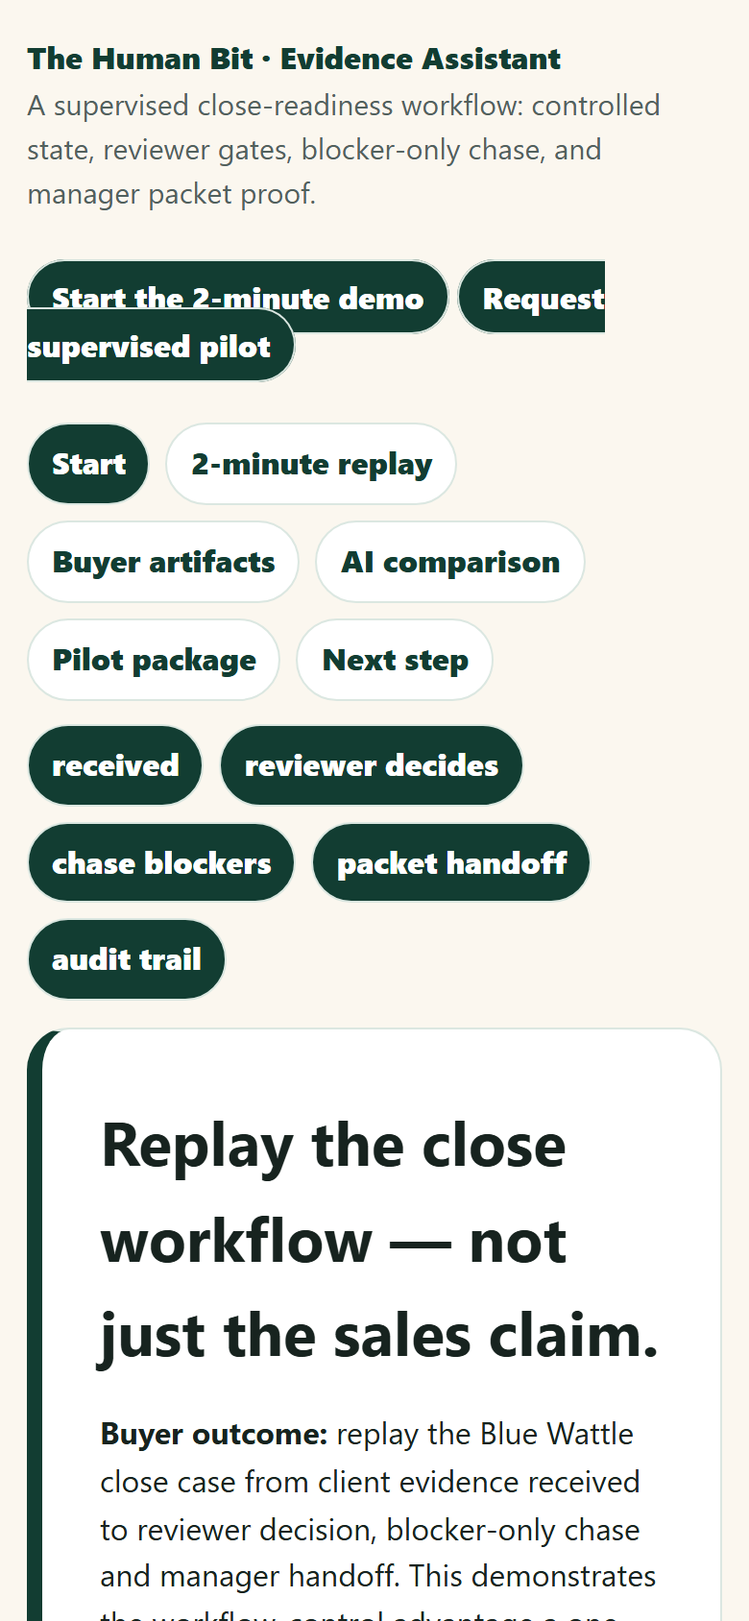
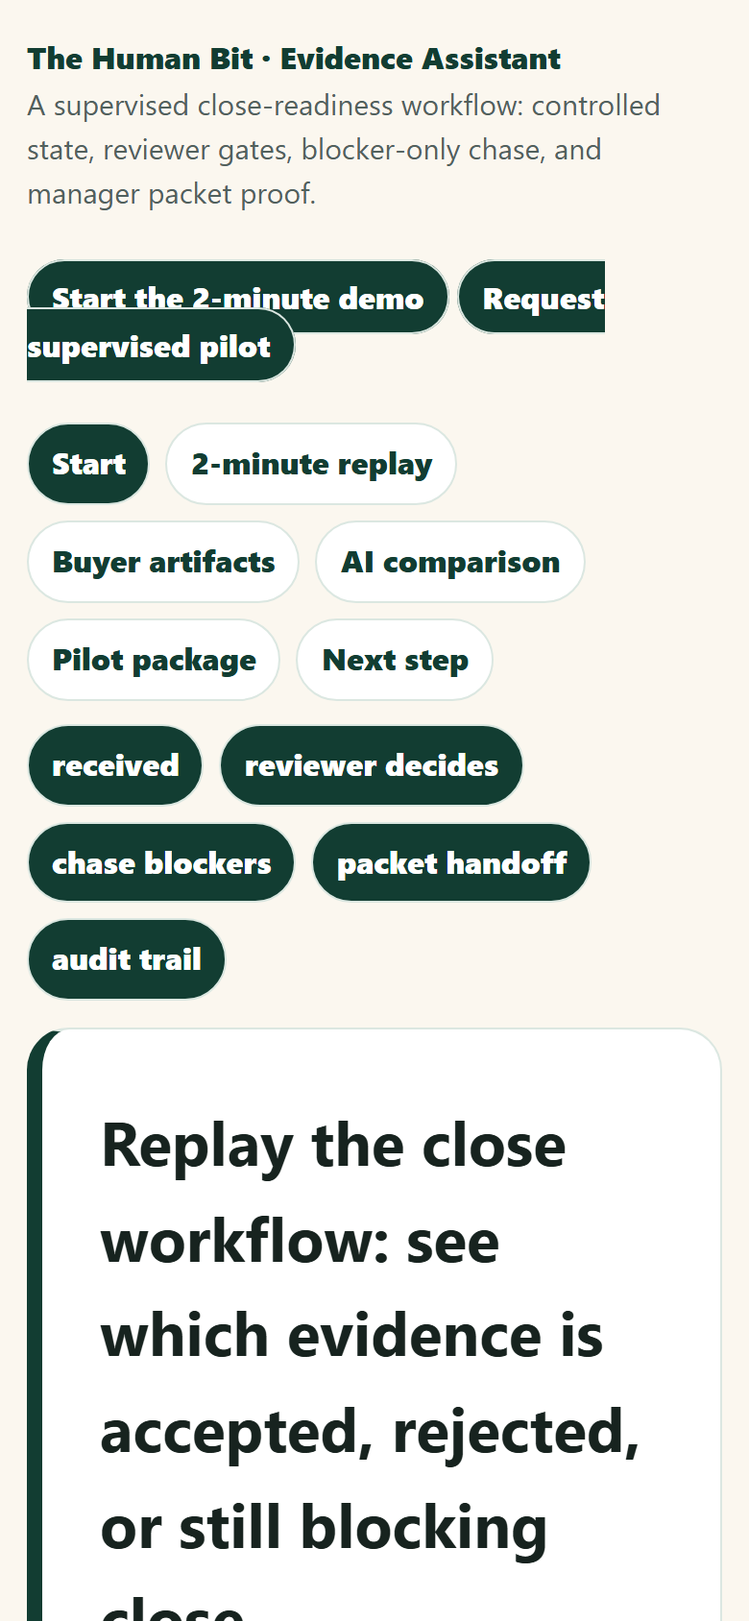
Build 84 fix replay fixture and pilot request

Changed region(s): [[0.1231, 0.7393, 0.8615, 1.0]]

diff --git a/workflow-replay.html b/workflow-replay.html
@@ -1,1 +1,1 @@
-<!doctype html><html lang="en"><head><meta charset="utf-8"><meta name="viewport" content="width=device-width, initial-scale=1"><title>2-minute workflow replay — Evidence Assistant</title><style>:root{--ink:#17231f;--green:#123d32;--muted:#52615d;--paper:#fbf7ef;--card:#fff;--line:#dbe7e1;--cream:#fff7df;--bad:#ffe8e2;--ok:#e7f5ed;--blue:#e9f2ff;--purple:#f0ebff;--cyan:#dff7ff}*{box-sizing:border-box}body{margin:0;font:16px/1.55 Inter,system-ui,-apple-system,Segoe UI,Arial,sans-serif;background:var(--paper);color:var(--ink)}main{max-width:1180px;margin:auto;padding:18px 14px 56px}.brand{font-weight:950;color:var(--green)}.small{color:var(--muted);font-size:.94rem}.top{display:flex;gap:14px;justify-content:space-between;align-items:flex-start;flex-wrap:wrap}nav,.progress{display:flex;gap:8px;flex-wrap:wrap;margin:12px 0}nav a,.chip,.cta{border:1px solid var(--line);background:#fff;border-radius:999px;padding:8px 12px;color:var(--green);font-weight:850;text-decoration:none}nav a[aria-current=page],.chip.active,.cta{background:var(--green);color:white}.hero,.card,.boundary,.danger,.step,.packet{background:var(--card);border:1px solid var(--line);border-radius:22px;padding:22px;margin:14px 0}.hero{padding:30px;border-left:8px solid var(--green)}.hero h1{font-size:clamp(2rem,4vw,3.7rem);margin:.2rem 0}.boundary{background:var(--cream);border-color:#e4c36f}.danger{background:var(--bad);border-color:#d7897c}.grid{display:grid;grid-template-columns:repeat(auto-fit,minmax(250px,1fr));gap:12px}.step{margin:0}.num{display:inline-grid;place-items:center;width:30px;height:30px;border-radius:50%;background:var(--green);color:white;font-weight:950;margin-right:8px}.badge{display:inline-block;border-radius:999px;padding:5px 10px;font-size:.86rem;font-weight:950;border:1px solid transparent;margin:2px}.accepted{background:var(--ok);color:#0f5132;border-color:#9bd1af}.waiting-review{background:var(--blue);color:#184c84;border-color:#9cbde0}.rejected-problem{background:var(--bad);color:#84281d;border-color:#e4aaa0}.requested-missing{background:var(--purple);color:#43227e;border-color:#baa7ed}.proof-table{width:100%;border-collapse:collapse;margin:12px 0}.proof-table th,.proof-table td{border:1px solid var(--line);padding:10px;text-align:left;vertical-align:top}.event{border-left:5px solid var(--green);background:#fff;margin:10px 0;padding:14px;border-radius:14px}.artifact{background:var(--cyan);border-color:#8ccdde}pre{white-space:pre-wrap;background:#07131f;color:#f4f7f1;border-radius:14px;padding:14px;overflow:auto}html,body,main{max-width:100%;overflow-x:hidden}</style></head><body><main><div class="top"><div><div class="brand">The Human Bit · Evidence Assistant</div><div class="small">A supervised close-readiness workflow: controlled state, reviewer gates, blocker-only chase, and manager packet proof.</div></div><p><a class="cta" href="workflow-replay.html">Start the 2-minute demo</a> <a class="cta" href="next-step.html">Request supervised pilot</a></p></div><nav aria-label="Buyer journey"><a href="index.html">Start</a><a href="workflow-replay.html" aria-current="page">2-minute replay</a><a href="buyer-artifacts.html">Buyer artifacts</a><a href="generic-ai-comparison.html">AI comparison</a><a href="pilot-package.html">Pilot package</a><a href="next-step.html">Next step</a></nav><section class="progress" aria-label="2-minute route"><span class="chip active">received</span><span class="chip active">reviewer decides</span><span class="chip active">chase blockers</span><span class="chip active">packet handoff</span><span class="chip active">audit trail</span></section><section class="hero"><h1>Blue Wattle replay: intake → review → blocker chase → packet.</h1><p>This public replay shows the moat: persistent case state, actor-specific decisions, before/after status and packet inclusion rules. A generic prompt can draft a table; it cannot prove who decided what, when, or what was excluded.</p><div class="event"><h2><span class="num">1</span>EV-001 · intake_received</h2><p><strong>08:10 · Staff Mina</strong> · September payroll variance support</p><p>Before: <code>requested/missing</code> → After: <code>waiting-review</code></p><p><strong>Packet rule:</strong> excluded until reviewer acceptance</p></div><div class="event"><h2><span class="num">2</span>EV-002 · intake_received</h2><p><strong>08:12 · Staff Mina</strong> · Bank reconciliation for operating account</p><p>Before: <code>requested/missing</code> → After: <code>waiting-review</code></p><p><strong>Packet rule:</strong> excluded until reviewer acceptance</p></div><div class="event"><h2><span class="num">3</span>EV-003 · accepted</h2><p><strong>08:16 · Reviewer Priya</strong> · September payroll variance support</p><p>Before: <code>waiting-review</code> → After: <code>accepted</code></p><p><strong>Packet rule:</strong> included in manager packet</p></div><div class="event"><h2><span class="num">4</span>EV-004 · accepted</h2><p><strong>08:18 · Reviewer Priya</strong> · Bank reconciliation for operating account</p><p>Before: <code>waiting-review</code> → After: <code>accepted</code></p><p><strong>Packet rule:</strong> included in manager packet</p></div><div class="event"><h2><span class="num">5</span>EV-005 · rejected</h2><p><strong>08:21 · Reviewer Priya</strong> · GST adjustment workpaper</p><p>Before: <code>waiting-review</code> → After: <code>rejected/problem</code></p><p><strong>Packet rule:</strong> excluded; rejection reason becomes chase blocker</p></div><div class="event"><h2><span class="num">6</span>EV-006 · blocker_only_chase_generated</h2><p><strong>08:23 · System draft, staff approved</strong> · GST adjustment workpaper; Director loan statement</p><p>Before: <code>unresolved blockers open</code> → After: <code>approved draft ready for simulated send</code></p><p><strong>Packet rule:</strong> chase references unresolved blockers only</p></div><div class="event"><h2><span class="num">7</span>EV-007 · packet_handoff</h2><p><strong>08:26 · Manager Sam</strong> · Blue Wattle close packet</p><p>Before: <code>mixed inbox thread</code> → After: <code>can/cannot close because packet</code></p><p><strong>Packet rule:</strong> accepted items included; unresolved blockers explicit</p></div><div class="card"><h2>Final state ledger</h2><table class="proof-table"><tr><th>Evidence item</th><th>Status</th><th>Owner</th><th>Packet rule / next action</th></tr><tr><td>September payroll variance support</td><td><span class="badge accepted">accepted</span></td><td>Reviewer Priya</td><td>Included in manager packet with decision log.</td></tr><tr><td>Bank reconciliation for operating account</td><td><span class="badge accepted">accepted after review</span></td><td>Reviewer Priya</td><td>Included only after reviewer event EV-004.</td></tr><tr><td>GST adjustment workpaper</td><td><span class="badge rejected-problem">rejected/problem</span></td><td>Client owner Mina</td><td>Excluded; chase asks for September workpaper only.</td></tr><tr><td>Director loan statement</td><td><span class="badge requested-missing">requested/missing</span></td><td>Client owner Mina</td><td>Excluded; chase remains open until uploaded.</td></tr></table></div><p><a class="cta" href="workflow-replay-fixture.json">Download replay JSON fixture</a></p></section></main></body></html>
+<!doctype html><html lang="en"><head><meta charset="utf-8"><meta name="viewport" content="width=device-width, initial-scale=1"><title>2-minute workflow replay — Evidence Assistant</title><style>:root{--ink:#17231f;--green:#123d32;--muted:#52615d;--paper:#fbf7ef;--card:#fff;--line:#dbe7e1;--cream:#fff7df;--bad:#ffe8e2;--ok:#e7f5ed;--blue:#e9f2ff;--purple:#f0ebff;--cyan:#dff7ff}*{box-sizing:border-box}body{margin:0;font:16px/1.55 Inter,system-ui,-apple-system,Segoe UI,Arial,sans-serif;background:var(--paper);color:var(--ink)}main{max-width:1180px;margin:auto;padding:18px 14px 56px}.brand{font-weight:950;color:var(--green)}.small{color:var(--muted);font-size:.94rem}.top{display:flex;gap:14px;justify-content:space-between;align-items:flex-start;flex-wrap:wrap}nav,.progress{display:flex;gap:8px;flex-wrap:wrap;margin:12px 0}nav a,.chip,.cta{border:1px solid var(--line);background:#fff;border-radius:999px;padding:8px 12px;color:var(--green);font-weight:850;text-decoration:none}nav a[aria-current=page],.chip.active,.cta{background:var(--green);color:white}.hero,.card,.boundary,.danger,.step,.packet{background:var(--card);border:1px solid var(--line);border-radius:22px;padding:22px;margin:14px 0}.hero{padding:30px;border-left:8px solid var(--green)}.hero h1{font-size:clamp(2rem,4vw,3.7rem);margin:.2rem 0}.boundary{background:var(--cream);border-color:#e4c36f}.danger{background:var(--bad);border-color:#d7897c}.grid{display:grid;grid-template-columns:repeat(auto-fit,minmax(250px,1fr));gap:12px}.step{margin:0}.num{display:inline-grid;place-items:center;width:30px;height:30px;border-radius:50%;background:var(--green);color:white;font-weight:950;margin-right:8px}.badge{display:inline-block;border-radius:999px;padding:5px 10px;font-size:.86rem;font-weight:950;border:1px solid transparent;margin:2px}.accepted{background:var(--ok);color:#0f5132;border-color:#9bd1af}.waiting-review{background:var(--blue);color:#184c84;border-color:#9cbde0}.rejected-problem{background:var(--bad);color:#84281d;border-color:#e4aaa0}.requested-missing{background:var(--purple);color:#43227e;border-color:#baa7ed}.proof-table{width:100%;border-collapse:collapse;margin:12px 0}.proof-table th,.proof-table td{border:1px solid var(--line);padding:10px;text-align:left;vertical-align:top}.event{border-left:5px solid var(--green);background:#fff;margin:10px 0;padding:14px;border-radius:14px}.artifact{background:var(--cyan);border-color:#8ccdde}pre{white-space:pre-wrap;background:#07131f;color:#f4f7f1;border-radius:14px;padding:14px;overflow:auto}html,body,main{max-width:100%;overflow-x:hidden}</style></head><body><main><div class="top"><div><div class="brand">The Human Bit · Evidence Assistant</div><div class="small">A supervised close-readiness workflow: controlled state, reviewer gates, blocker-only chase, and manager packet proof.</div></div><p><a class="cta" href="workflow-replay.html">Start the 2-minute demo</a> <a class="cta" href="next-step.html">Request supervised pilot</a></p></div><nav aria-label="Buyer journey"><a href="index.html">Start</a><a href="workflow-replay.html" aria-current="page">2-minute replay</a><a href="buyer-artifacts.html">Buyer artifacts</a><a href="generic-ai-comparison.html">AI comparison</a><a href="pilot-package.html">Pilot package</a><a href="next-step.html">Next step</a></nav><section class="progress" aria-label="2-minute route"><span class="chip active">received</span><span class="chip active">reviewer decides</span><span class="chip active">chase blockers</span><span class="chip active">packet handoff</span><span class="chip active">audit trail</span></section><section class="hero"><h1>Blue Wattle replay: intake → review → blocker chase → packet.</h1><p>This public replay shows the moat: persistent case state, actor-specific decisions, before/after status and packet inclusion rules. A generic prompt can draft a table; it cannot prove who decided what, when, or what was excluded.</p><div class="event"><h2><span class="num">1</span>EV-001 · intake_received</h2><p><strong>08:10 · Staff Mina</strong> · September payroll variance support</p><p>Before: <code>requested/missing</code> → After: <code>waiting-review</code></p><p><strong>Packet rule:</strong> excluded until reviewer acceptance</p></div><div class="event"><h2><span class="num">2</span>EV-002 · intake_received</h2><p><strong>08:12 · Staff Mina</strong> · Bank reconciliation for operating account</p><p>Before: <code>requested/missing</code> → After: <code>waiting-review</code></p><p><strong>Packet rule:</strong> excluded until reviewer acceptance</p></div><div class="event"><h2><span class="num">3</span>EV-003 · accepted</h2><p><strong>08:16 · Reviewer Priya</strong> · September payroll variance support</p><p>Before: <code>waiting-review</code> → After: <code>accepted</code></p><p><strong>Packet rule:</strong> included in manager packet</p></div><div class="event"><h2><span class="num">4</span>EV-004 · accepted</h2><p><strong>08:18 · Reviewer Priya</strong> · Bank reconciliation for operating account</p><p>Before: <code>waiting-review</code> → After: <code>accepted</code></p><p><strong>Packet rule:</strong> included in manager packet</p></div><div class="event"><h2><span class="num">5</span>EV-005 · rejected</h2><p><strong>08:21 · Reviewer Priya</strong> · GST adjustment workpaper</p><p>Before: <code>waiting-review</code> → After: <code>rejected/problem</code></p><p><strong>Packet rule:</strong> excluded; rejection reason becomes chase blocker</p></div><div class="event"><h2><span class="num">6</span>EV-006 · blocker_only_chase_generated</h2><p><strong>08:23 · System draft, staff approved</strong> · GST adjustment workpaper; Director loan statement</p><p>Before: <code>unresolved blockers open</code> → After: <code>approved draft ready for simulated send</code></p><p><strong>Packet rule:</strong> chase references unresolved blockers only</p></div><div class="event"><h2><span class="num">7</span>EV-007 · packet_handoff</h2><p><strong>08:26 · Manager Sam</strong> · Blue Wattle close packet</p><p>Before: <code>mixed inbox thread</code> → After: <code>can/cannot close because packet</code></p><p><strong>Packet rule:</strong> accepted items included; unresolved blockers explicit</p></div><div class="card"><h2>Final state ledger</h2><table class="proof-table"><tr><th>Evidence item</th><th>Status</th><th>Owner</th><th>Packet rule / next action</th></tr><tr><td>September payroll variance support</td><td><span class="badge accepted">accepted</span></td><td>Reviewer Priya</td><td>Included in manager packet with decision log.</td></tr><tr><td>Bank reconciliation for operating account</td><td><span class="badge accepted">accepted after review</span></td><td>Reviewer Priya</td><td>Included only after reviewer event EV-004.</td></tr><tr><td>GST adjustment workpaper</td><td><span class="badge rejected-problem">rejected/problem</span></td><td>Client owner Mina</td><td>Excluded; chase asks for September workpaper only.</td></tr><tr><td>Director loan statement</td><td><span class="badge requested-missing">requested/missing</span></td><td>Client owner Mina</td><td>Excluded; chase remains open until uploaded.</td></tr></table></div><p><a class="cta" href="workflow-replay-fixture.json">Download workflow replay JSON fixture</a> · <a class="cta" href="replay-fixture.json">Download alias: replay-fixture.json</a></p></section></main></body></html>

diff --git a/index.html b/index.html
@@ -1,1 +1,1 @@
-<!doctype html><html lang="en"><head><meta charset="utf-8"><meta name="viewport" content="width=device-width, initial-scale=1"><title>Start here — Evidence Assistant</title><style>:root{--ink:#17231f;--green:#123d32;--muted:#52615d;--paper:#fbf7ef;--card:#fff;--line:#dbe7e1;--cream:#fff7df;--bad:#ffe8e2;--ok:#e7f5ed;--blue:#e9f2ff;--purple:#f0ebff;--cyan:#dff7ff}*{box-sizing:border-box}body{margin:0;font:16px/1.55 Inter,system-ui,-apple-system,Segoe UI,Arial,sans-serif;background:var(--paper);color:var(--ink)}main{max-width:1180px;margin:auto;padding:18px 14px 56px}.brand{font-weight:950;color:var(--green)}.small{color:var(--muted);font-size:.94rem}.top{display:flex;gap:14px;justify-content:space-between;align-items:flex-start;flex-wrap:wrap}nav,.progress{display:flex;gap:8px;flex-wrap:wrap;margin:12px 0}nav a,.chip,.cta{border:1px solid var(--line);background:#fff;border-radius:999px;padding:8px 12px;color:var(--green);font-weight:850;text-decoration:none}nav a[aria-current=page],.chip.active,.cta{background:var(--green);color:white}.hero,.card,.boundary,.danger,.step,.packet{background:var(--card);border:1px solid var(--line);border-radius:22px;padding:22px;margin:14px 0}.hero{padding:30px;border-left:8px solid var(--green)}.hero h1{font-size:clamp(2rem,4vw,3.7rem);margin:.2rem 0}.boundary{background:var(--cream);border-color:#e4c36f}.danger{background:var(--bad);border-color:#d7897c}.grid{display:grid;grid-template-columns:repeat(auto-fit,minmax(250px,1fr));gap:12px}.step{margin:0}.num{display:inline-grid;place-items:center;width:30px;height:30px;border-radius:50%;background:var(--green);color:white;font-weight:950;margin-right:8px}.badge{display:inline-block;border-radius:999px;padding:5px 10px;font-size:.86rem;font-weight:950;border:1px solid transparent;margin:2px}.accepted{background:var(--ok);color:#0f5132;border-color:#9bd1af}.waiting-review{background:var(--blue);color:#184c84;border-color:#9cbde0}.rejected-problem{background:var(--bad);color:#84281d;border-color:#e4aaa0}.requested-missing{background:var(--purple);color:#43227e;border-color:#baa7ed}.proof-table{width:100%;border-collapse:collapse;margin:12px 0}.proof-table th,.proof-table td{border:1px solid var(--line);padding:10px;text-align:left;vertical-align:top}.event{border-left:5px solid var(--green);background:#fff;margin:10px 0;padding:14px;border-radius:14px}.artifact{background:var(--cyan);border-color:#8ccdde}pre{white-space:pre-wrap;background:#07131f;color:#f4f7f1;border-radius:14px;padding:14px;overflow:auto}html,body,main{max-width:100%;overflow-x:hidden}</style></head><body><main><div class="top"><div><div class="brand">The Human Bit · Evidence Assistant</div><div class="small">A supervised close-readiness workflow: controlled state, reviewer gates, blocker-only chase, and manager packet proof.</div></div><p><a class="cta" href="workflow-replay.html">Start the 2-minute demo</a> <a class="cta" href="next-step.html">Request supervised pilot</a></p></div><nav aria-label="Buyer journey"><a href="index.html" aria-current="page">Start</a><a href="workflow-replay.html">2-minute replay</a><a href="buyer-artifacts.html">Buyer artifacts</a><a href="generic-ai-comparison.html">AI comparison</a><a href="pilot-package.html">Pilot package</a><a href="next-step.html">Next step</a></nav><section class="progress" aria-label="2-minute route"><span class="chip active">received</span><span class="chip active">reviewer decides</span><span class="chip active">chase blockers</span><span class="chip active">packet handoff</span><span class="chip active">audit trail</span></section><section class="hero"><h1>Replay the close workflow — not just the sales claim.</h1><p><strong>Buyer outcome:</strong> replay the Blue Wattle close case from client evidence received to reviewer decision, blocker-only chase and manager handoff. This demonstrates the workflow-control advantage a one-off prompt cannot prove.</p><div class="grid"><div class="card"><h2>Start here</h2><p><a class="cta" href="workflow-replay.html">Start the 2-minute demo</a></p><p>Follow event IDs, actors, before/after states and packet inclusion rules.</p></div><div class="card"><h2>What changed in Build 83</h2><p>Static explanation became a replayable proof bundle: event log, state ledger, sample packet, blocker chase and same-input AI comparison.</p></div><div class="card"><h2>Safety boundary</h2><p>No auto-accept. No auto-send. Reviewer events and staff approval are required before close evidence becomes usable or chase copy leaves the firm.</p></div></div><div class="card"><h2>Blue Wattle case state after replay</h2><table class="proof-table"><tr><th>Evidence item</th><th>Status</th><th>Owner</th><th>Packet rule / next action</th></tr><tr><td>September payroll variance support</td><td><span class="badge accepted">accepted</span></td><td>Reviewer Priya</td><td>Included in manager packet with decision log.</td></tr><tr><td>Bank reconciliation for operating account</td><td><span class="badge accepted">accepted after review</span></td><td>Reviewer Priya</td><td>Included only after reviewer event EV-004.</td></tr><tr><td>GST adjustment workpaper</td><td><span class="badge rejected-problem">rejected/problem</span></td><td>Client owner Mina</td><td>Excluded; chase asks for September workpaper only.</td></tr><tr><td>Director loan statement</td><td><span class="badge requested-missing">requested/missing</span></td><td>Client owner Mina</td><td>Excluded; chase remains open until uploaded.</td></tr></table></div><div class="boundary"><strong>Proof drawer:</strong> this is a public, sanitized static replay and artifact pack for buyer review. It is not a production SaaS claim and contains no client data.</div></section></main></body></html>
+<!doctype html><html lang="en"><head><meta charset="utf-8"><meta name="viewport" content="width=device-width, initial-scale=1"><title>Start here — Evidence Assistant</title><style>:root{--ink:#17231f;--green:#123d32;--muted:#52615d;--paper:#fbf7ef;--card:#fff;--line:#dbe7e1;--cream:#fff7df;--bad:#ffe8e2;--ok:#e7f5ed;--blue:#e9f2ff;--purple:#f0ebff;--cyan:#dff7ff}*{box-sizing:border-box}body{margin:0;font:16px/1.55 Inter,system-ui,-apple-system,Segoe UI,Arial,sans-serif;background:var(--paper);color:var(--ink)}main{max-width:1180px;margin:auto;padding:18px 14px 56px}.brand{font-weight:950;color:var(--green)}.small{color:var(--muted);font-size:.94rem}.top{display:flex;gap:14px;justify-content:space-between;align-items:flex-start;flex-wrap:wrap}nav,.progress{display:flex;gap:8px;flex-wrap:wrap;margin:12px 0}nav a,.chip,.cta{border:1px solid var(--line);background:#fff;border-radius:999px;padding:8px 12px;color:var(--green);font-weight:850;text-decoration:none}nav a[aria-current=page],.chip.active,.cta{background:var(--green);color:white}.hero,.card,.boundary,.danger,.step,.packet{background:var(--card);border:1px solid var(--line);border-radius:22px;padding:22px;margin:14px 0}.hero{padding:30px;border-left:8px solid var(--green)}.hero h1{font-size:clamp(2rem,4vw,3.7rem);margin:.2rem 0}.boundary{background:var(--cream);border-color:#e4c36f}.danger{background:var(--bad);border-color:#d7897c}.grid{display:grid;grid-template-columns:repeat(auto-fit,minmax(250px,1fr));gap:12px}.step{margin:0}.num{display:inline-grid;place-items:center;width:30px;height:30px;border-radius:50%;background:var(--green);color:white;font-weight:950;margin-right:8px}.badge{display:inline-block;border-radius:999px;padding:5px 10px;font-size:.86rem;font-weight:950;border:1px solid transparent;margin:2px}.accepted{background:var(--ok);color:#0f5132;border-color:#9bd1af}.waiting-review{background:var(--blue);color:#184c84;border-color:#9cbde0}.rejected-problem{background:var(--bad);color:#84281d;border-color:#e4aaa0}.requested-missing{background:var(--purple);color:#43227e;border-color:#baa7ed}.proof-table{width:100%;border-collapse:collapse;margin:12px 0}.proof-table th,.proof-table td{border:1px solid var(--line);padding:10px;text-align:left;vertical-align:top}.event{border-left:5px solid var(--green);background:#fff;margin:10px 0;padding:14px;border-radius:14px}.artifact{background:var(--cyan);border-color:#8ccdde}pre{white-space:pre-wrap;background:#07131f;color:#f4f7f1;border-radius:14px;padding:14px;overflow:auto}html,body,main{max-width:100%;overflow-x:hidden}</style></head><body><main><div class="top"><div><div class="brand">The Human Bit · Evidence Assistant</div><div class="small">A supervised close-readiness workflow: controlled state, reviewer gates, blocker-only chase, and manager packet proof.</div></div><p><a class="cta" href="workflow-replay.html">Start the 2-minute demo</a> <a class="cta" href="next-step.html">Request supervised pilot</a></p></div><nav aria-label="Buyer journey"><a href="index.html" aria-current="page">Start</a><a href="workflow-replay.html">2-minute replay</a><a href="buyer-artifacts.html">Buyer artifacts</a><a href="generic-ai-comparison.html">AI comparison</a><a href="pilot-package.html">Pilot package</a><a href="next-step.html">Next step</a></nav><section class="progress" aria-label="2-minute route"><span class="chip active">received</span><span class="chip active">reviewer decides</span><span class="chip active">chase blockers</span><span class="chip active">packet handoff</span><span class="chip active">audit trail</span></section><section class="hero"><h1>Replay the close workflow: see which evidence is accepted, rejected, or still blocking close.</h1><p><strong>Buyer outcome:</strong> see exactly which client evidence is accepted, rejected, or still blocking close — with a safe chase draft and manager packet. This demonstrates the workflow-control advantage a one-off prompt cannot prove.</p><div class="grid"><div class="card"><h2>Start here</h2><p><a class="cta" href="workflow-replay.html">Start the 2-minute demo</a></p><p>Follow event IDs, actors, before/after states and packet inclusion rules.</p></div><div class="card"><h2>What changed in Build 84</h2><p>Static explanation became a replayable proof bundle: event log, state ledger, sample packet, blocker chase and same-input AI comparison.</p></div><div class="card"><h2>Safety boundary</h2><p>No auto-accept. No auto-send. Reviewer events and staff approval are required before close evidence becomes usable or chase copy leaves the firm.</p></div></div><div class="card"><h2>Blue Wattle case state after replay</h2><table class="proof-table"><tr><th>Evidence item</th><th>Status</th><th>Owner</th><th>Packet rule / next action</th></tr><tr><td>September payroll variance support</td><td><span class="badge accepted">accepted</span></td><td>Reviewer Priya</td><td>Included in manager packet with decision log.</td></tr><tr><td>Bank reconciliation for operating account</td><td><span class="badge accepted">accepted after review</span></td><td>Reviewer Priya</td><td>Included only after reviewer event EV-004.</td></tr><tr><td>GST adjustment workpaper</td><td><span class="badge rejected-problem">rejected/problem</span></td><td>Client owner Mina</td><td>Excluded; chase asks for September workpaper only.</td></tr><tr><td>Director loan statement</td><td><span class="badge requested-missing">requested/missing</span></td><td>Client owner Mina</td><td>Excluded; chase remains open until uploaded.</td></tr></table></div><div class="boundary"><strong>Proof drawer:</strong> this is a public, sanitized static replay and artifact pack for buyer review. It is not a production SaaS claim and contains no client data.</div></section></main></body></html>

diff --git a/next-step.html b/next-step.html
@@ -1,4 +1,4 @@
-<!doctype html><html lang="en"><head><meta charset="utf-8"><meta name="viewport" content="width=device-width, initial-scale=1"><title>Next step — Evidence Assistant</title><style>:root{--ink:#17231f;--green:#123d32;--muted:#52615d;--paper:#fbf7ef;--card:#fff;--line:#dbe7e1;--cream:#fff7df;--bad:#ffe8e2;--ok:#e7f5ed;--blue:#e9f2ff;--purple:#f0ebff;--cyan:#dff7ff}*{box-sizing:border-box}body{margin:0;font:16px/1.55 Inter,system-ui,-apple-system,Segoe UI,Arial,sans-serif;background:var(--paper);color:var(--ink)}main{max-width:1180px;margin:auto;padding:18px 14px 56px}.brand{font-weight:950;color:var(--green)}.small{color:var(--muted);font-size:.94rem}.top{display:flex;gap:14px;justify-content:space-between;align-items:flex-start;flex-wrap:wrap}nav,.progress{display:flex;gap:8px;flex-wrap:wrap;margin:12px 0}nav a,.chip,.cta{border:1px solid var(--line);background:#fff;border-radius:999px;padding:8px 12px;color:var(--green);font-weight:850;text-decoration:none}nav a[aria-current=page],.chip.active,.cta{background:var(--green);color:white}.hero,.card,.boundary,.danger,.step,.packet{background:var(--card);border:1px solid var(--line);border-radius:22px;padding:22px;margin:14px 0}.hero{padding:30px;border-left:8px solid var(--green)}.hero h1{font-size:clamp(2rem,4vw,3.7rem);margin:.2rem 0}.boundary{background:var(--cream);border-color:#e4c36f}.danger{background:var(--bad);border-color:#d7897c}.grid{display:grid;grid-template-columns:repeat(auto-fit,minmax(250px,1fr));gap:12px}.step{margin:0}.num{display:inline-grid;place-items:center;width:30px;height:30px;border-radius:50%;background:var(--green);color:white;font-weight:950;margin-right:8px}.badge{display:inline-block;border-radius:999px;padding:5px 10px;font-size:.86rem;font-weight:950;border:1px solid transparent;margin:2px}.accepted{background:var(--ok);color:#0f5132;border-color:#9bd1af}.waiting-review{background:var(--blue);color:#184c84;border-color:#9cbde0}.rejected-problem{background:var(--bad);color:#84281d;border-color:#e4aaa0}.requested-missing{background:var(--purple);color:#43227e;border-color:#baa7ed}.proof-table{width:100%;border-collapse:collapse;margin:12px 0}.proof-table th,.proof-table td{border:1px solid var(--line);padding:10px;text-align:left;vertical-align:top}.event{border-left:5px solid var(--green);background:#fff;margin:10px 0;padding:14px;border-radius:14px}.artifact{background:var(--cyan);border-color:#8ccdde}pre{white-space:pre-wrap;background:#07131f;color:#f4f7f1;border-radius:14px;padding:14px;overflow:auto}html,body,main{max-width:100%;overflow-x:hidden}</style></head><body><main><div class="top"><div><div class="brand">The Human Bit · Evidence Assistant</div><div class="small">A supervised close-readiness workflow: controlled state, reviewer gates, blocker-only chase, and manager packet proof.</div></div><p><a class="cta" href="workflow-replay.html">Start the 2-minute demo</a> <a class="cta" href="next-step.html">Request supervised pilot</a></p></div><nav aria-label="Buyer journey"><a href="index.html">Start</a><a href="workflow-replay.html">2-minute replay</a><a href="buyer-artifacts.html">Buyer artifacts</a><a href="generic-ai-comparison.html">AI comparison</a><a href="pilot-package.html">Pilot package</a><a href="next-step.html" aria-current="page">Next step</a></nav><section class="progress" aria-label="2-minute route"><span class="chip active">received</span><span class="chip active">reviewer decides</span><span class="chip active">chase blockers</span><span class="chip active">packet handoff</span><span class="chip active">audit trail</span></section><section class="hero"><h1>Request a supervised pilot without sending client data.</h1><p><strong>Request supervised pilot</strong> — this static artifact has no form and collects no client data. Use the mailto link or copy the request below.</p><p><a class="cta" href="mailto:syed@example.invalid?subject=Evidence%20Assistant%20supervised%20pilot">Open pilot request email</a></p><div class="card"><h2>Copyable request</h2><pre>Subject: Evidence Assistant supervised pilot
+<!doctype html><html lang="en"><head><meta charset="utf-8"><meta name="viewport" content="width=device-width, initial-scale=1"><title>Next step — Evidence Assistant</title><style>:root{--ink:#17231f;--green:#123d32;--muted:#52615d;--paper:#fbf7ef;--card:#fff;--line:#dbe7e1;--cream:#fff7df;--bad:#ffe8e2;--ok:#e7f5ed;--blue:#e9f2ff;--purple:#f0ebff;--cyan:#dff7ff}*{box-sizing:border-box}body{margin:0;font:16px/1.55 Inter,system-ui,-apple-system,Segoe UI,Arial,sans-serif;background:var(--paper);color:var(--ink)}main{max-width:1180px;margin:auto;padding:18px 14px 56px}.brand{font-weight:950;color:var(--green)}.small{color:var(--muted);font-size:.94rem}.top{display:flex;gap:14px;justify-content:space-between;align-items:flex-start;flex-wrap:wrap}nav,.progress{display:flex;gap:8px;flex-wrap:wrap;margin:12px 0}nav a,.chip,.cta{border:1px solid var(--line);background:#fff;border-radius:999px;padding:8px 12px;color:var(--green);font-weight:850;text-decoration:none}nav a[aria-current=page],.chip.active,.cta{background:var(--green);color:white}.hero,.card,.boundary,.danger,.step,.packet{background:var(--card);border:1px solid var(--line);border-radius:22px;padding:22px;margin:14px 0}.hero{padding:30px;border-left:8px solid var(--green)}.hero h1{font-size:clamp(2rem,4vw,3.7rem);margin:.2rem 0}.boundary{background:var(--cream);border-color:#e4c36f}.danger{background:var(--bad);border-color:#d7897c}.grid{display:grid;grid-template-columns:repeat(auto-fit,minmax(250px,1fr));gap:12px}.step{margin:0}.num{display:inline-grid;place-items:center;width:30px;height:30px;border-radius:50%;background:var(--green);color:white;font-weight:950;margin-right:8px}.badge{display:inline-block;border-radius:999px;padding:5px 10px;font-size:.86rem;font-weight:950;border:1px solid transparent;margin:2px}.accepted{background:var(--ok);color:#0f5132;border-color:#9bd1af}.waiting-review{background:var(--blue);color:#184c84;border-color:#9cbde0}.rejected-problem{background:var(--bad);color:#84281d;border-color:#e4aaa0}.requested-missing{background:var(--purple);color:#43227e;border-color:#baa7ed}.proof-table{width:100%;border-collapse:collapse;margin:12px 0}.proof-table th,.proof-table td{border:1px solid var(--line);padding:10px;text-align:left;vertical-align:top}.event{border-left:5px solid var(--green);background:#fff;margin:10px 0;padding:14px;border-radius:14px}.artifact{background:var(--cyan);border-color:#8ccdde}pre{white-space:pre-wrap;background:#07131f;color:#f4f7f1;border-radius:14px;padding:14px;overflow:auto}html,body,main{max-width:100%;overflow-x:hidden}</style></head><body><main><div class="top"><div><div class="brand">The Human Bit · Evidence Assistant</div><div class="small">A supervised close-readiness workflow: controlled state, reviewer gates, blocker-only chase, and manager packet proof.</div></div><p><a class="cta" href="workflow-replay.html">Start the 2-minute demo</a> <a class="cta" href="next-step.html">Request supervised pilot</a></p></div><nav aria-label="Buyer journey"><a href="index.html">Start</a><a href="workflow-replay.html">2-minute replay</a><a href="buyer-artifacts.html">Buyer artifacts</a><a href="generic-ai-comparison.html">AI comparison</a><a href="pilot-package.html">Pilot package</a><a href="next-step.html" aria-current="page">Next step</a></nav><section class="progress" aria-label="2-minute route"><span class="chip active">received</span><span class="chip active">reviewer decides</span><span class="chip active">chase blockers</span><span class="chip active">packet handoff</span><span class="chip active">audit trail</span></section><section class="hero"><h1>Request a supervised pilot without sending client data.</h1><p><strong>Request supervised pilot</strong> — this static artifact has no form and collects no client data. Copy the request below; do not attach client files at this stage.</p><div class="boundary"><strong>No client files required for the first request.</strong> Copy the request below into your existing The Human Bit / Syed contact channel. This static demo intentionally does not collect client data or expose a fake form.</div><div class="card"><h2>Copyable request</h2><pre>Subject: Evidence Assistant supervised pilot
 
 We want to assess the Blue Wattle-style close-readiness pilot.
 Firm type:

diff --git a/STATIC_DEPLOYMENT.md b/STATIC_DEPLOYMENT.md
@@ -1,3 +1,3 @@
-# Build 83 static deployment boundary
+# Build 84 static deployment boundary
 
 Public fetch-back proves the static replay, artifacts and comparison bytes only. It does not prove tenant auth, mutable workflow enforcement, production headers, encrypted storage, monitoring, backups, retention/deletion, disaster recovery or integrations.
